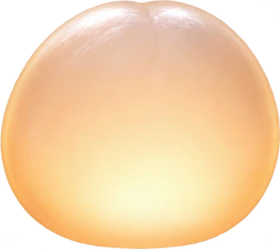
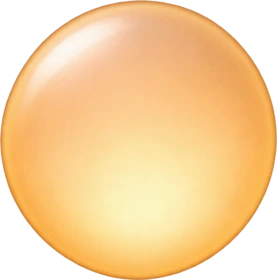
Round the book spirit and animate its emotional reactions

diff --git a/src/components/BookSpirit.css b/src/components/BookSpirit.css
@@ -45,10 +45,10 @@
 .spirit-wing.right i { animation-delay: -.55s; transition-delay: 60ms; }
 .spirit-head {
   position: absolute;
-  left: 25%;
-  top: 21%;
-  width: 50%;
-  height: 46%;
+  left: 22%;
+  top: 17%;
+  width: 56%;
+  height: 56%;
   background: url('../assets/spirit-head.webp') center / 100% 100% no-repeat;
   transform-origin: 50% 90%;
   transform: translateY(var(--head-lift)) rotate(var(--head-tilt));
@@ -70,7 +70,7 @@
   transition: transform .23s, border-radius .23s, background .23s;
 }
 .spirit-gaze { position: absolute; inset: 0; }
-.companion-sprite[data-gesture=read][data-speaking=false]:is([data-mood=focused], [data-mood=happy]) .spirit-gaze {
+.companion-sprite[data-gesture=read][data-speaking=false]:not([data-beat]):is([data-mood=focused], [data-mood=happy]) .spirit-gaze {
   animation: spirit-follow-words 5.8s infinite;
 }
 .spirit-iris {
@@ -105,9 +105,9 @@
 .spirit-volume {
   position: absolute;
   left: 16%;
-  top: 51%;
+  top: 57%;
   width: 68%;
-  height: 43%;
+  height: 34%;
   transform-origin: 50% 62%;
   transform: rotate(var(--book-tilt));
   transition: transform .48s ease;
@@ -132,15 +132,39 @@
 .companion-sprite[data-mood=surprised] { --head-lift: -11%; --wing-spread: 17deg; --gaze-y: 0%; }
 .companion-sprite[data-mood=surprised] .spirit-mouth { border: 0; background: #6e3417; height: 16%; border-radius: 50%; }
 .companion-sprite[data-mood=sleepy] { --head-tilt: 9deg; --head-lift: 10%; --wing-spread: -16deg; --book-tilt: 3deg; }
-.companion-sprite:is([data-mood=sleepy], [data-beat=humor], [data-mood=encouraging]) .spirit-eye {
-  top: 32%;
-  bottom: 14%;
-  background: transparent;
-  border-color: #6b3416;
-  border-radius: 65% 65% 0 0;
+.spirit-lid {
+  position: absolute;
+  inset: 35% 0 15%;
+  border-top: max(1.4px, 1.6cqw) solid #713810;
+  border-radius: 60% 60% 0 0;
+  opacity: 0;
 }
-.companion-sprite:is([data-mood=sleepy], [data-beat=humor], [data-mood=encouraging]) .spirit-iris { opacity: 0; }
-.companion-sprite[data-mood=sleepy] .spirit-eye { transform: rotate(180deg); }
+.companion-sprite[data-mood=happy] .spirit-eye { animation: spirit-smile-eyes 1.65s ease-in-out; }
+.companion-sprite[data-mood=happy] .spirit-lid { animation: spirit-smile-lids 1.65s ease-in-out; }
+.companion-sprite:is([data-beat=humor], [data-mood=encouraging], [data-mood=sleepy]) .spirit-eye {
+  opacity: 0;
+  animation: spirit-close-eyes .52s ease-out;
+}
+.companion-sprite:is([data-beat=humor], [data-mood=encouraging], [data-mood=sleepy]) .spirit-lid {
+  opacity: 1;
+  animation: spirit-close-lids .52s ease-out;
+}
+.companion-sprite[data-mood=sleepy] .spirit-eye,
+.companion-sprite[data-mood=sleepy] .spirit-lid { animation-duration: 1.25s; }
+.companion-sprite[data-mood=sleepy] .spirit-lid { border-top: 0; border-bottom: max(1.4px, 1.6cqw) solid #713810; border-radius: 0 0 65% 65%; }
+.companion-sprite[data-mood=sleepy] .spirit-torso { animation: spirit-doze 4.6s ease-in-out infinite; }
+.companion-sprite[data-mood=surprised] .spirit-torso { animation: spirit-recoil .85s ease-out; }
+.companion-sprite[data-mood=surprised] .spirit-eye { transform: scale(1.08); animation: spirit-widen .68s ease-out; }
+.companion-sprite[data-mood=encouraging] .spirit-torso { animation: spirit-nod 1.2s ease-in-out; }
+.companion-sprite[data-mood=curious] .spirit-torso { animation: spirit-listen 1.2s ease-in-out; }
+.companion-sprite[data-beat=grief] .spirit-torso { animation: spirit-bow 1.8s ease-in-out both; }
+.companion-sprite:is([data-beat=humor], [data-mood=encouraging]) .spirit-mouth {
+  width: 17%; left: 42%; height: 10%;
+  background: #733b16;
+  border-radius: 18% 18% 60% 60%;
+}
+.companion-sprite[data-beat=deception] .spirit-gaze { animation: spirit-sidelong 1.45s ease-in-out both; }
+.companion-sprite[data-beat=relief] .spirit-torso { animation: spirit-exhale 1.5s ease-in-out; }
 .companion-sprite[data-beat=grief] { --head-lift: 9%; --wing-spread: -12deg; --book-tilt: 4deg; }
 .companion-sprite[data-beat=deception] .spirit-eye-socket.left { transform: rotate(14deg) scaleY(.75); }
 .companion-sprite[data-beat=humor] .spirit-torso { animation: spirit-chuckle .51s ease-in-out 2; }
@@ -177,4 +201,56 @@
   55% { opacity: 1; transform: translateY(-50%) rotateY(-70deg) rotateZ(-22deg); }
   100% { opacity: 0; transform: rotateY(-172deg) rotateZ(-3deg); }
 }
+.spirit-emote {
+  position: absolute;
+  top: 0;
+  left: 71%;
+  width: 25%;
+  height: 24%;
+  color: #ffe7a4;
+  font: bold 20cqw/1 Georgia, serif;
+  -webkit-text-stroke: .55px #895022;
+  paint-order: stroke fill;
+  text-shadow: 0 1px 2px #633919;
+}
+.spirit-emote i { position: absolute; left: 0; bottom: 0; font-style: normal; opacity: 0; }
+.emote-sleepy { font-size: 14cqw; }
+.emote-sleepy i { animation: spirit-dream 3.4s ease-out infinite; }
+.emote-sleepy i:nth-child(2) { animation-delay: .85s; }
+.emote-sleepy i:nth-child(3) { animation-delay: 1.7s; }
+.emote-surprised i { animation: spirit-exclaim 1.7s ease-out both; }
+.emote-curious i { animation: spirit-wonder 2.1s ease-out both; }
+.emote-encouraging i { font-size: 12cqw; animation: spirit-glint 1.25s .15s ease-in-out both; }
+.emote-encouraging i:nth-child(2) { left: 48%; bottom: 32%; animation-delay: .45s; }
+@keyframes spirit-close-eyes { from { opacity: 1; transform: scaleY(1); } 80% { opacity: .8; } to { opacity: 0; transform: scaleY(.05); } }
+@keyframes spirit-close-lids { 0%, 44% { opacity: 0; transform: translateY(20%) scaleY(.1); } to { opacity: 1; transform: none; } }
+@keyframes spirit-smile-eyes { 0%, 8%, 100% { opacity: 1; transform: none; } 34%, 71% { opacity: 0; transform: scaleY(.05); } }
+@keyframes spirit-smile-lids { 0%, 12%, 100% { opacity: 0; transform: scaleY(.1); } 35%, 70% { opacity: 1; transform: none; } }
+@keyframes spirit-doze { 55% { transform: translateY(2%) rotate(4deg) scaleY(.97); } }
+@keyframes spirit-recoil { 16% { transform: translateY(2%) scale(1.05,.92); } 42% { transform: translateY(-7%) rotate(-4deg); } 74% { transform: translateY(1%) rotate(1deg); } }
+@keyframes spirit-widen { 18% { transform: scale(.93,.68); } 52% { transform: scale(1.16); } }
+@keyframes spirit-nod { 30%, 76% { transform: rotate(3deg) scaleY(.96); } 53% { transform: translateY(-2%); } }
+@keyframes spirit-listen { 38%, 70% { transform: rotate(-6deg); } }
+@keyframes spirit-bow { to { transform: rotate(5deg) translateY(3%); } }
+@keyframes spirit-sidelong { 25%, 90%, 100% { transform: translate(-19%, 4%); } 61% { transform: translate(13%, 4%); } }
+@keyframes spirit-exhale { 24% { transform: scale(.98,1.04); } 76% { transform: translateY(2%) scale(1.04,.96); } }
+@keyframes spirit-dream {
+  0% { opacity: 0; transform: translate(-55%, 20%) scale(.45); }
+  16% { opacity: 1; }
+  49% { opacity: .85; }
+  82%, 100% { opacity: 0; transform: translate(210%,-193%) scale(1.13) rotate(9deg); }
+}
+@keyframes spirit-exclaim {
+  0% { opacity: 0; transform: translateY(25%) scale(.35); }
+  16% { opacity: 1; transform: translateY(-46%) rotate(9deg) scale(1.2); }
+  33%, 72% { opacity: 1; transform: translateY(-22%) rotate(7deg); }
+  100% { opacity: 0; transform: translateY(-53%) scale(.84); }
+}
+@keyframes spirit-wonder {
+  0% { opacity: 0; transform: translateY(15%) rotate(-15deg) scale(.65); }
+  30%, 70% { opacity: 1; transform: translateY(-27%) rotate(9deg); }
+  100% { opacity: 0; transform: translateY(-48%) rotate(4deg); }
+}
+@keyframes spirit-glint { 0%, 100% { opacity: 0; transform: scale(.35); } 50% { opacity: 1; transform: scale(1.05) rotate(12deg); } }
+.companion-still .spirit-emote i:first-child { opacity: 1; }
 .companion-still .companion-sprite * { animation: none !important; transition: none !important; }

diff --git a/src/components/BookSpirit.tsx b/src/components/BookSpirit.tsx
@@ -4,8 +4,13 @@ import './BookSpirit.css'
 
 type Gesture = 'read' | 'notice' | 'stretch' | 'turn-next' | 'turn-back'
 
-export default function BookSpirit({ page, mood, beat, speaking, reducedMotion, bubbleId, onTap }: {
+const marks: Partial<Record<SpiritMood, string[]>> = {
+  sleepy: ['z', 'z', 'Z'], surprised: ['!'], curious: ['?'], encouraging: ['✦', '✦'],
+}
+
+export default function BookSpirit({ page, reactionId, mood, beat, speaking, reducedMotion, bubbleId, onTap }: {
   page: number
+  reactionId?: number
   mood: SpiritMood
   beat?: BeatKind
   speaking: boolean
@@ -58,9 +63,10 @@ export default function BookSpirit({ page, mood, beat, speaking, reducedMotion, 
     }
     next = window.setTimeout(blink, 1900 + Math.random() * 1900)
     return () => { window.clearTimeout(next); blinks.forEach(animation => animation.cancel()) }
-  }, [mood, beat, speaking, reducedMotion, move])
+  }, [reactionId, mood, beat, speaking, reducedMotion, move])
 
   const lookUp = () => move('notice', 1500)
+  const accents = mood === 'sleepy' || reactionId !== undefined ? marks[mood] : undefined
   return <button className="companion-pet" aria-label="Hear from the book spirit" aria-expanded={speaking} aria-controls={bubbleId}
     title="Hear from the book spirit"
     onPointerEnter={event => { if (event.pointerType === 'mouse') lookUp() }}
@@ -75,13 +81,13 @@ export default function BookSpirit({ page, mood, beat, speaking, reducedMotion, 
     onFocus={event => { if (event.currentTarget.matches(':focus-visible')) lookUp() }}
     onClick={() => { lookUp(); onTap() }}>
     <span ref={figure} className="companion-sprite" data-mood={mood} data-beat={beat} data-gesture={gesture} data-speaking={speaking} aria-hidden="true">
-      <span className="spirit-torso">
+      <span className="spirit-torso" key={reactionId ?? 'idle'}>
         <span className="spirit-wing left"><i /></span>
         <span className="spirit-wing right"><i /></span>
         <span className="spirit-head">
           <span className="spirit-face">
             {['left', 'right'].map(side => <span key={side} className={'spirit-eye-socket ' + side}>
-              <span className="spirit-blink"><span className="spirit-eye"><span className="spirit-gaze"><i className="spirit-iris" /></span></span></span>
+              <span className="spirit-blink"><span className="spirit-eye"><span className="spirit-gaze"><i className="spirit-iris" /></span></span><i className="spirit-lid" /></span>
             </span>)}
             <i className="spirit-mouth" />
             <i className="spirit-specs" />
@@ -92,6 +98,9 @@ export default function BookSpirit({ page, mood, beat, speaking, reducedMotion, 
           <i className="spirit-cover" />
         </span>
       </span>
+      {accents && <span key={`${reactionId ?? 'idle'}-${mood}`} className={`spirit-emote emote-${mood}`}>
+        {accents.map((mark, index) => <i key={index}>{mark}</i>)}
+      </span>}
     </span>
   </button>
 }

diff --git a/tests/library.e2e.ts b/tests/library.e2e.ts
@@ -469,6 +469,7 @@ test('the book spirit expresses scene emotions offline and remembers when turned
   await expect(sprite).toHaveAttribute('data-mood', 'focused')
   await page.clock.fastForward(5_000)
   await expect(sprite).toHaveAttribute('data-mood', 'happy')
+  await expect(sprite.locator('.spirit-lid').first()).toHaveCSS('animation-name', 'spirit-close-lids')
   await page.clock.fastForward(1500)
   await expect(bubble).toHaveText('Heh. Okay, that got me.')
   await expect(companion.locator('blockquote')).toHaveCount(0)
@@ -480,6 +481,8 @@ test('the book spirit expresses scene emotions offline and remembers when turned
   await pageControl(page).press('Enter')
   await page.clock.fastForward(35_000)
   await expect(sprite).toHaveAttribute('data-mood', 'surprised')
+  await expect(sprite.locator('.emote-surprised i')).toHaveText('!')
+  await expect(sprite.locator('.emote-surprised i')).toHaveCSS('animation-name', 'spirit-exclaim')
   await expect(bubble).toHaveCount(0)
   await page.clock.fastForward(40_000)
   await expect(bubble).toHaveText('The footsteps are making me nervous… would you go look?')
@@ -580,6 +583,12 @@ test('a quiet reading milestone can be bookmarked and the resting spirit becomes
   await expect(spirit.locator('.companion-bubble')).toHaveText('I’ve marked page 24 for you.')
   await page.clock.fastForward(50_000)
   await expect(spirit.locator('.companion-sprite')).toHaveAttribute('data-mood', 'sleepy')
+  const dreams = spirit.locator('.emote-sleepy i')
+  await expect(dreams).toHaveText(['z', 'z', 'Z'])
+  await expect(dreams.first()).toHaveCSS('animation-name', 'spirit-dream')
+  await page.emulateMedia({ reducedMotion: 'reduce' })
+  await expect(dreams.first()).toHaveCSS('animation-name', 'none')
+  await expect(dreams.first()).toHaveCSS('opacity', '1')
 })
 
 test('the spirit looks up, follows a page turn, and rests with reduced motion', async ({ page }) => {

diff --git a/src/components/ReadingCompanion.tsx b/src/components/ReadingCompanion.tsx
@@ -6,7 +6,7 @@ import type { CompanionMode } from '../lib/model'
 import BookSpirit from './BookSpirit'
 
 type Action = 'recap' | 'question' | 'bookmark' | 'connect'
-type Moment = { page: number; mood: SpiritMood; kind?: BeatKind; line?: string; action?: Action }
+type Moment = { reactionId?: number; page: number; mood: SpiritMood; kind?: BeatKind; line?: string; action?: Action }
 const speechCooldown = 72_000
 const noticeTime = {
   doubt: 920, deception: 1120, surprise: 260, danger: 880, unease: 1380, humor: 450, grief: 1260, relief: 720, warmth: 800,
@@ -171,6 +171,7 @@ export default function ReadingCompanion({ page, total, mode, available, reduced
       } else return
     }
     if (reaction && !action) previousBeat.current = { page, kind: reaction.kind }
+    expression.reactionId = token
     setMoment(expression)
     if (automatic && Date.now() - lastSpeech.current < speechCooldown) {
       animationTimers.current.push(window.setTimeout(() => setMoment(undefined), 3600))
@@ -228,7 +229,7 @@ export default function ReadingCompanion({ page, total, mode, available, reduced
       </div>}
     </div>
     <div className="spirit-perch">
-      <BookSpirit page={page} mood={current?.mood ?? idle} beat={current?.kind} speaking={!!current?.line}
+      <BookSpirit page={page} reactionId={current?.reactionId} mood={current?.mood ?? idle} beat={current?.kind} speaking={!!current?.line}
         reducedMotion={reducedMotion} bubbleId={bubbleId} onTap={() => void perform()} />
       <button ref={sparkle} className="spirit-toggle" aria-label="Companion prompts" aria-controls={promptsId} aria-expanded={prompts}
         title="Companion prompts" onClick={togglePrompts}>{prompts ? <X size={15} /> : <Sparkles size={16} />}</button>
